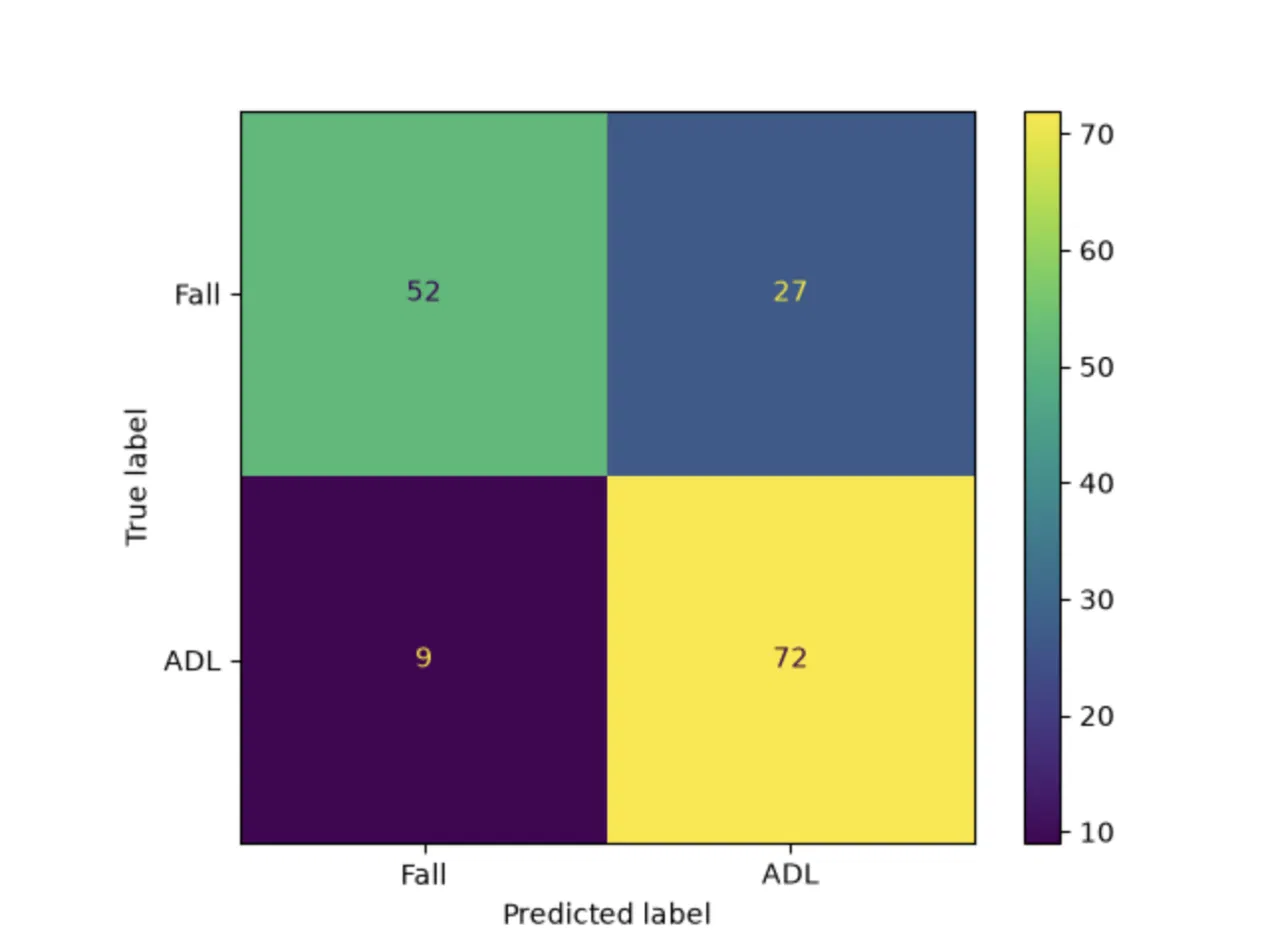
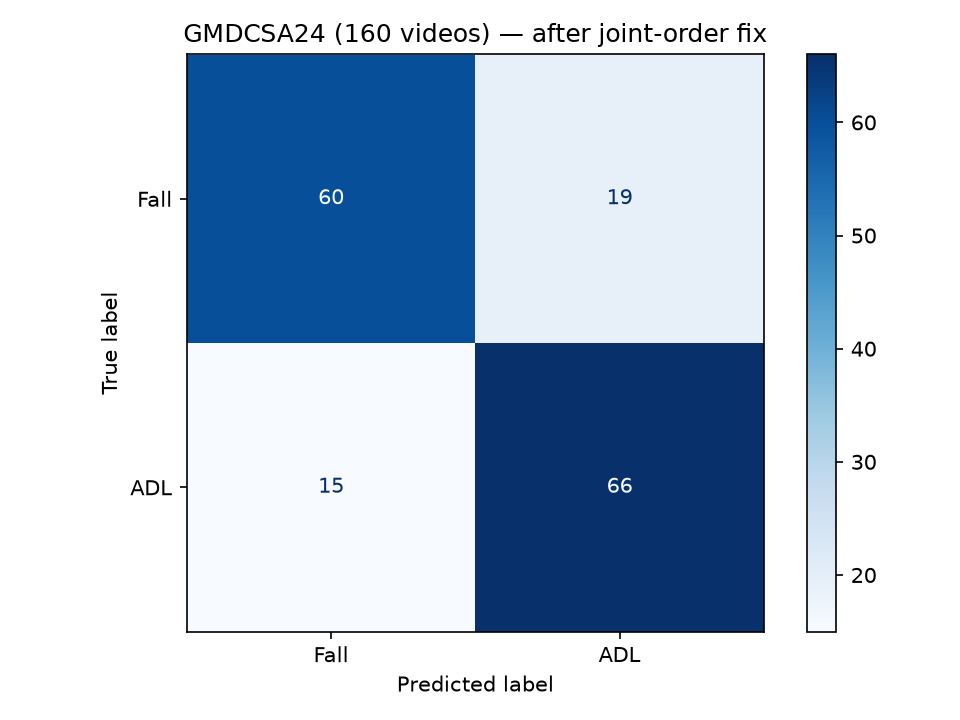
update README.md and RESULT.md for new test results

diff --git a/tests/test_custom_csv.py b/tests/test_custom_csv.py
@@ -28,7 +28,7 @@ model = Fall2d(input_shape=3,
                output_shape=2,
                hidden_units=16)
 
-model.load_state_dict(torch.load(REPO_ROOT / "best_model_test_91acc.pth"))
+model.load_state_dict(torch.load(REPO_ROOT / "best_model.pth"))
 model.eval()
 
 with torch.inference_mode():

diff --git a/RESULTS.md b/RESULTS.md
@@ -1,6 +1,6 @@
 # Cross-Dataset Generalization Test
 
-The number in the main README (91% accuracy, 0.89 fall recall) comes from a held-out split of FallVision, the dataset the model was trained on. That shows the model learned FallVision. It doesn't show whether it generalizes to a new camera, a new room, or people it's never seen, which is what actually matters for a real deployment. So I ran the trained model against GMDCSA24, a fall detection dataset built by a different research group, with different subjects, cameras, and rooms, never seen during training or model selection.
+The number in the main README comes from a held-out split of FallVision, the dataset the model was trained on. That shows the model learned FallVision. It doesn't show whether it generalizes to a new camera, a new room, or people it's never seen, which is what actually matters for a real deployment. So I ran the trained model against GMDCSA24, a fall detection dataset built by a different research group, with different subjects, cameras, and rooms, never seen during training or model selection.
 
 ## Setup
 
@@ -14,19 +14,76 @@ The number in the main README (91% accuracy, 0.89 fall recall) comes from a held
 
 | Class        | Precision | Recall | F1-score | Support |
 |--------------|-----------|--------|----------|---------|
-| Fall         | 0.85      | 0.66   | 0.74     | 79      |
-| ADL          | 0.73      | 0.89   | 0.80     | 81      |
-| **Accuracy** |           |        | **0.78** | 160     |
-| Macro avg    | 0.79      | 0.77   | 0.77     | 160     |
-| Weighted avg | 0.79      | 0.78   | 0.77     | 160     |
+| Fall         | 0.80      | 0.76   | 0.78     | 79      |
+| ADL          | 0.78      | 0.81   | 0.80     | 81      |
+| **Accuracy** |           |        | **0.79** | 160     |
+| Macro avg    | 0.79      | 0.79   | 0.79     | 160     |
+| Weighted avg | 0.79      | 0.79   | 0.79     | 160     |
+
+Confusion matrix (rows true, columns predicted):
+
+|          | pred Fall | pred ADL |
+|----------|-----------|----------|
+| **Fall** | 60        | 19       |
+| **ADL**  | 15        | 66       |
+
+### Per subject
+
+Accuracy varies far more by subject than the pooled number suggests:
+
+| Subject | Videos | Fall recall | ADL recall | Accuracy |
+|---------|--------|-------------|------------|----------|
+| 1       | 32     | 0.94        | 0.94       | **0.94** |
+| 2       | 48     | 0.72        | 0.87       | 0.79     |
+| 3       | 43     | 0.67        | 0.86       | 0.77     |
+| 4       | 37     | 0.76        | 0.60       | **0.68** |
 
 ## Reading the numbers
 
-ADL detection holds up well: 72 of 81 no-fall videos are correctly identified, a 0.89 recall in line with the FallVision result. Fall recall is where the model takes a real hit, dropping from 0.89 on FallVision to 0.66 here, 52 of 79 falls caught. Precision on the Fall class stays reasonable at 0.85, so the model isn't flagging ADL clips as falls any more than before. It's specifically missing falls it would have caught on its own training distribution.
+Overall accuracy is 0.79, and 60 of 79 falls are caught. The pooled figure hides a 26-point spread between the best subject (0.94) and the worst (0.68), which is the real story: domain shift here is **per-person**, not per-dataset. Subject 4 is the only one where ADL recall collapses (0.60), meaning the model reads that person's ordinary activities as falls. Whatever differs about how subject 4 moves, sits, or is framed by the camera, the model has not seen it.
 
-That gap is domain shift, not a pipeline bug (the normalization mismatch mentioned in the README's "Key engineering findings" section was caught and fixed before it ever touched a trained checkpoint, so it doesn't explain this result). GMDCSA24's falls were staged by different people, on different floors, with a different camera setup than FallVision. Whatever combination of motion patterns the model keyed on for "this is a fall" doesn't fully carry over. A missed-fall rate that triples on a same-task dataset from a different source is the kind of thing that would show up as real missed emergencies on a device deployed to a household that looks nothing like FallVision's recording setup.
+A missed fall is the costly error, so fall recall of 0.76 is the number to quote for real-world reliability, not the 0.9-something from the training distribution. Nineteen missed falls out of 79 would be nineteen real emergencies nobody was alerted to.
 
-Most portfolio fall-detection projects report one clean test-set number and stop there. A single held-out split from the training dataset can only tell you how well the model memorized that dataset's distribution, not whether it generalizes. This is the number I'd actually quote as the model's real-world reliability, not 91%.
+Most portfolio fall-detection projects report one clean test-set number and stop there. A single held-out split from the training dataset can only tell you how well the model memorized that dataset's distribution.
+
+## The bug this evaluation caught
+
+The first version of this evaluation scored 0.78 accuracy with 0.66 fall recall. Re-running the identical code on Colab scored **0.41** — barely better than a coin flip, with the same weights, the same videos, and the same checkpoint.
+
+The cause was one line in `reshape()` (`src/preprocess.py`):
+
+```python
+df_sorted = clean_frame.sort_values("Frame")     # kind="quicksort" by default — not stable
+```
+
+Each frame contributes 17 rows, one per joint, all sharing the same `Frame` value. Sorting on `Frame` alone leaves all 17 tied, and an unstable sort is free to return ties in any order. The next line reshapes to `(frames, 17, 3)` assuming slot *k* holds joint *k*, and `custom_transform` reads slots 11 and 12 as the hips.
+
+Measured over 5,858 frames, **zero** had the joints in the correct slots and **zero** had the hips at slots 11 and 12. The mid-hip centering had never once centered on a hip.
+
+The shuffle is deterministic for a given numpy build but differs across builds — arm64 macOS and x86-64 Colab produce different permutations. The model had been trained through the same broken path, so it had memorized one machine's scramble; on any other machine it was reading noise. The diagnostic that pinned it: `ADL/16.mp4` produced identical detections on both machines (1768 rows, 104 frames) and scored −10.80 on one and +0.73 on the other.
+
+The fix sorts on the joint name as well as the frame, using an ordered categorical so the result cannot depend on row order, pandas version, or CPU:
+
+```python
+clean_frame["Keypoint"] = pd.Categorical(clean_frame["Keypoint"], categories=joint_names, ordered=True)
+df_sorted = clean_frame.sort_values(by=["Frame", "Keypoint"], ascending=[True, True])
+```
+
+After the fix, 100% of frames carry correctly ordered joints and `reshape` is provably invariant to input row order. Retrained on properly ordered skeletons:
+
+| | before fix | after fix |
+|---|---|---|
+| FallVision held-out accuracy | 0.91 | 0.89 |
+| FallVision fall recall | 0.89 | **0.90** |
+| Subject 1 accuracy | 0.81 | **0.94** |
+| GMDCSA24 accuracy (160) | 0.78 | 0.79 |
+| GMDCSA24 fall recall | 0.66 | **0.76** |
+| falls caught | 52 / 79 | **60 / 79** |
+| same result on macOS and Colab | no (0.81 vs 0.41) | **yes** |
+
+Note the in-distribution score went *down*, from 0.91 to 0.89. That is the expected shape of this fix: part of the old 0.91 was the model exploiting a machine-specific artifact of its own training data rather than learning posture. Trading two points of in-distribution accuracy for ten points of cross-dataset fall recall is the trade worth making.
+
+Pooled accuracy barely moved, which is worth being honest about — but the error balance shifted in the direction that matters, trading 6 extra false alarms for 8 more falls caught. The larger result is that the number is now reproducible on any machine, which it previously was not.
 
 ## Reproducing this
 
@@ -34,7 +91,7 @@ Most portfolio fall-detection projects report one clean test-set number and stop
 python src/predict.py
 ```
 
-Run from the repository root. Edit the `datafolder`, `fall_folder_name`, and `nofall_folder_name` arguments at the bottom of `src/predict.py` to point at wherever you've downloaded GMDCSA24, organized into per-class subfolders.
+Run from the repository root. Enter the path to a folder of GMDCSA24 videos organized into per-class subfolders, then the Fall and ADL folder names, when prompted.
 
 ## Dataset citation
 

diff --git a/README.md b/README.md
@@ -17,19 +17,23 @@ A missed fall matters most for someone living alone: no one's there to notice, a
 
 Evaluated on a held-out, deduplicated split of the training dataset (FallVision, 308 test videos):
 
-| Class        | Precision | Recall | F1-score |
-|--------------|-----------|--------|----------|
-| Fall         | 0.91      | 0.89   | 0.90     |
-| No Fall      | 0.92      | 0.93   | 0.92     |
-| **Accuracy** |           |        | **0.91** |
+| Class        | Precision | Recall | F1-score | Support |
+|--------------|-----------|--------|----------|---------|
+| Fall         | 0.86      | 0.90   | 0.88     | 134     |
+| No Fall      | 0.92      | 0.89   | 0.90     | 174     |
+| **Accuracy** |           |        | **0.89** | 308     |
 
-Fall recall (0.89) is the metric that matters most: a missed fall is far more costly than a false alarm. But a single held-out split from the training distribution only proves the model learned FallVision, not that it generalizes. See [`RESULTS.md`](RESULTS.md) for a second evaluation on GMDCSA24, a completely separate fall-detection dataset with different subjects and cameras: fall recall there drops to 0.66, and that gap is the more honest number.
+120 of 134 falls caught, 14 missed, 20 false alarms.
+
+Fall recall (0.90) is the metric that matters most: a missed fall is far more costly than a false alarm. But a single held-out split from the training distribution only proves the model learned FallVision, not that it generalizes. See [`RESULTS.md`](RESULTS.md) for a second evaluation on GMDCSA24, a completely separate fall-detection dataset with different subjects and cameras: accuracy there is 0.79 and fall recall 0.76, and that gap is the more honest number.
 
 ## Key engineering findings
 
-- Deduplicating the training files exposed a data leak that inflated accuracy to 98%. Out of 5,440 keypoint files in FallVision, only 1,539 were unique. The remaining 72% were byte-identical duplicates scattered across folders. A standard random train/test split placed identical copies on both sides, letting the model memorize files. Cleaning out duplicate hashes brought the real accuracy to 91%.
+- Deduplicating the training files exposed a data leak that inflated accuracy to 98%. Out of 5,440 keypoint files in FallVision, only 1,539 were unique. The remaining 72% were byte-identical duplicates scattered across folders. A standard random train/test split placed identical copies on both sides, letting the model memorize files. Cleaning out duplicate hashes brought accuracy down to the honest figure reported above.
 - Inspecting the training pipeline caught a double-normalization bug before training ruined a checkpoint. The spatial scaling transform was running inside the `Dataset` class, but `process_one_video` was also scaling inputs directly. Had the dataset been reassembled without setting `Dataset` transform parameters to `None`, inputs would have been normalized twice.
-- Testing across datasets revealed heavy domain shift. Evaluating on GMDCSA24 dropped fall recall from 0.89 to 0.66, showing how badly single-dataset benchmarks mask real-world degradation.
+- Fixing a silent data bug lowered the headline number and improved the model. The joint-order fix below moved in-distribution accuracy from 0.91 down to 0.89, while cross-dataset fall recall rose from 0.66 to 0.76. The old 0.91 was partly the model exploiting a machine-specific artifact in its own training data; the new numbers are lower, honest, and reproducible anywhere.
+- An unstable sort was silently scrambling every skeleton. `reshape()` sorted keypoint rows by frame number alone, but all 17 joints in a frame share that number, and pandas' default sort is not stable, so the joints came back in arbitrary order before being reshaped into fixed slots. Across 5,858 frames, **zero** had joints in the right slots and **zero** had the hips where the mid-hip centering expected them. The permutation is deterministic per numpy build but differs across builds, so the same code and the same weights scored 0.81 on macOS and 0.41 on Colab. Sorting on the joint name as well as the frame fixed it; retraining lifted GMDCSA24 fall recall from 0.66 to 0.76 and made the result identical on both machines. Full writeup in [`RESULTS.md`](RESULTS.md).
+- Testing across datasets revealed heavy domain shift, and it is per-person rather than per-dataset. On GMDCSA24 accuracy ranges from 0.94 on subject 1 to 0.68 on subject 4, so a single pooled benchmark number hides most of the real-world variation.
 
 ## Approach
 
@@ -37,13 +41,13 @@ Video clips pass through YOLOv8-Pose to extract 17 COCO keypoints per frame befo
 
 Per-video preprocessing in `src/preprocess.py` cleans and formats spatial data through four steps:
 1. Skeletons within a single frame are deduplicated by picking the detection with the highest average confidence score.
-2. Long-format CSV keypoints reshape into a `(frames, 17, 3)` tensor tracking 17 joints across x, y, and confidence values.
+2. Long-format CSV keypoints reshape into a `(frames, 17, 3)` tensor tracking 17 joints across x, y, and confidence values. Rows are sorted by frame **and** by joint name (via an ordered categorical), so slot *k* always holds joint *k* regardless of CSV row order, pandas version, or CPU architecture.
 3. Linear interpolation resamples every video to 64 frames to standardize clip length.
 4. Joints center on the mid-hip point and scale to unit range to remove position bias.
 
 The classifier treats the clip as a `(3, 64, 17)` tensor, mapping 3 channels across 64 frames (height) and 17 joints (width). Two convolutional blocks, max pooling, dropout, and a final linear layer learn spatial motion patterns across adjacent joints and frames.
 
-Because the model overfit early on the smaller deduplicated dataset, regularization was applied during training. Input scaling, dropout, and on-the-fly Gaussian noise added to joint coordinates brought the train/test performance gap down from 12 percentage points to 3.
+Because the model overfit early on the smaller deduplicated dataset, regularization was applied during training. Input scaling, dropout, and on-the-fly Gaussian noise added to joint coordinates brought the train/test performance gap down from 12 percentage points to about 5 (train 0.93, test 0.89 at the checkpointed epoch).
 
 ## Audio Exploration (Not Integrated)
 
@@ -88,7 +92,7 @@ fall-detection-multimodal/
 │   └── test_custom_csv.py    # quick manual sanity check against a saved checkpoint
 ├── assets/
 │   └── confusion_matrix.png  # GMDCSA24 confusion matrix, referenced from RESULTS.md
-├── best_model.pth / best_model_test_91acc.pth   # saved checkpoints
+├── best_model.pth           # current checkpoint (trained after the joint-order fix)
 ├── README.md
 └── RESULTS.md                # cross-dataset generalization writeup
 ```
@@ -102,7 +106,7 @@ pip install torch ultralytics pandas numpy scikit-learn matplotlib tqdm mlxtend
 python src/predict.py
 ```
 
-Run this from the repository root (checkpoints and the YOLO weights are loaded by relative path). Edit the `datafolder`, `fall_folder_name`, and `nofall_folder_name` arguments at the bottom of `src/predict.py` to point at your data. The script extracts keypoints with YOLOv8-Pose, runs the trained CNN (`best_model_test_91acc.pth`), and prints a confusion matrix and classification report.
+Run this from the repository root (checkpoints and the YOLO weights are loaded by relative path). Edit the `datafolder`, `fall_folder_name`, and `nofall_folder_name` arguments at the bottom of `src/predict.py` to point at your data. The script extracts keypoints with YOLOv8-Pose, runs the trained CNN (`best_model.pth`), and prints a confusion matrix and classification report.
 
 ## Datasets
 
